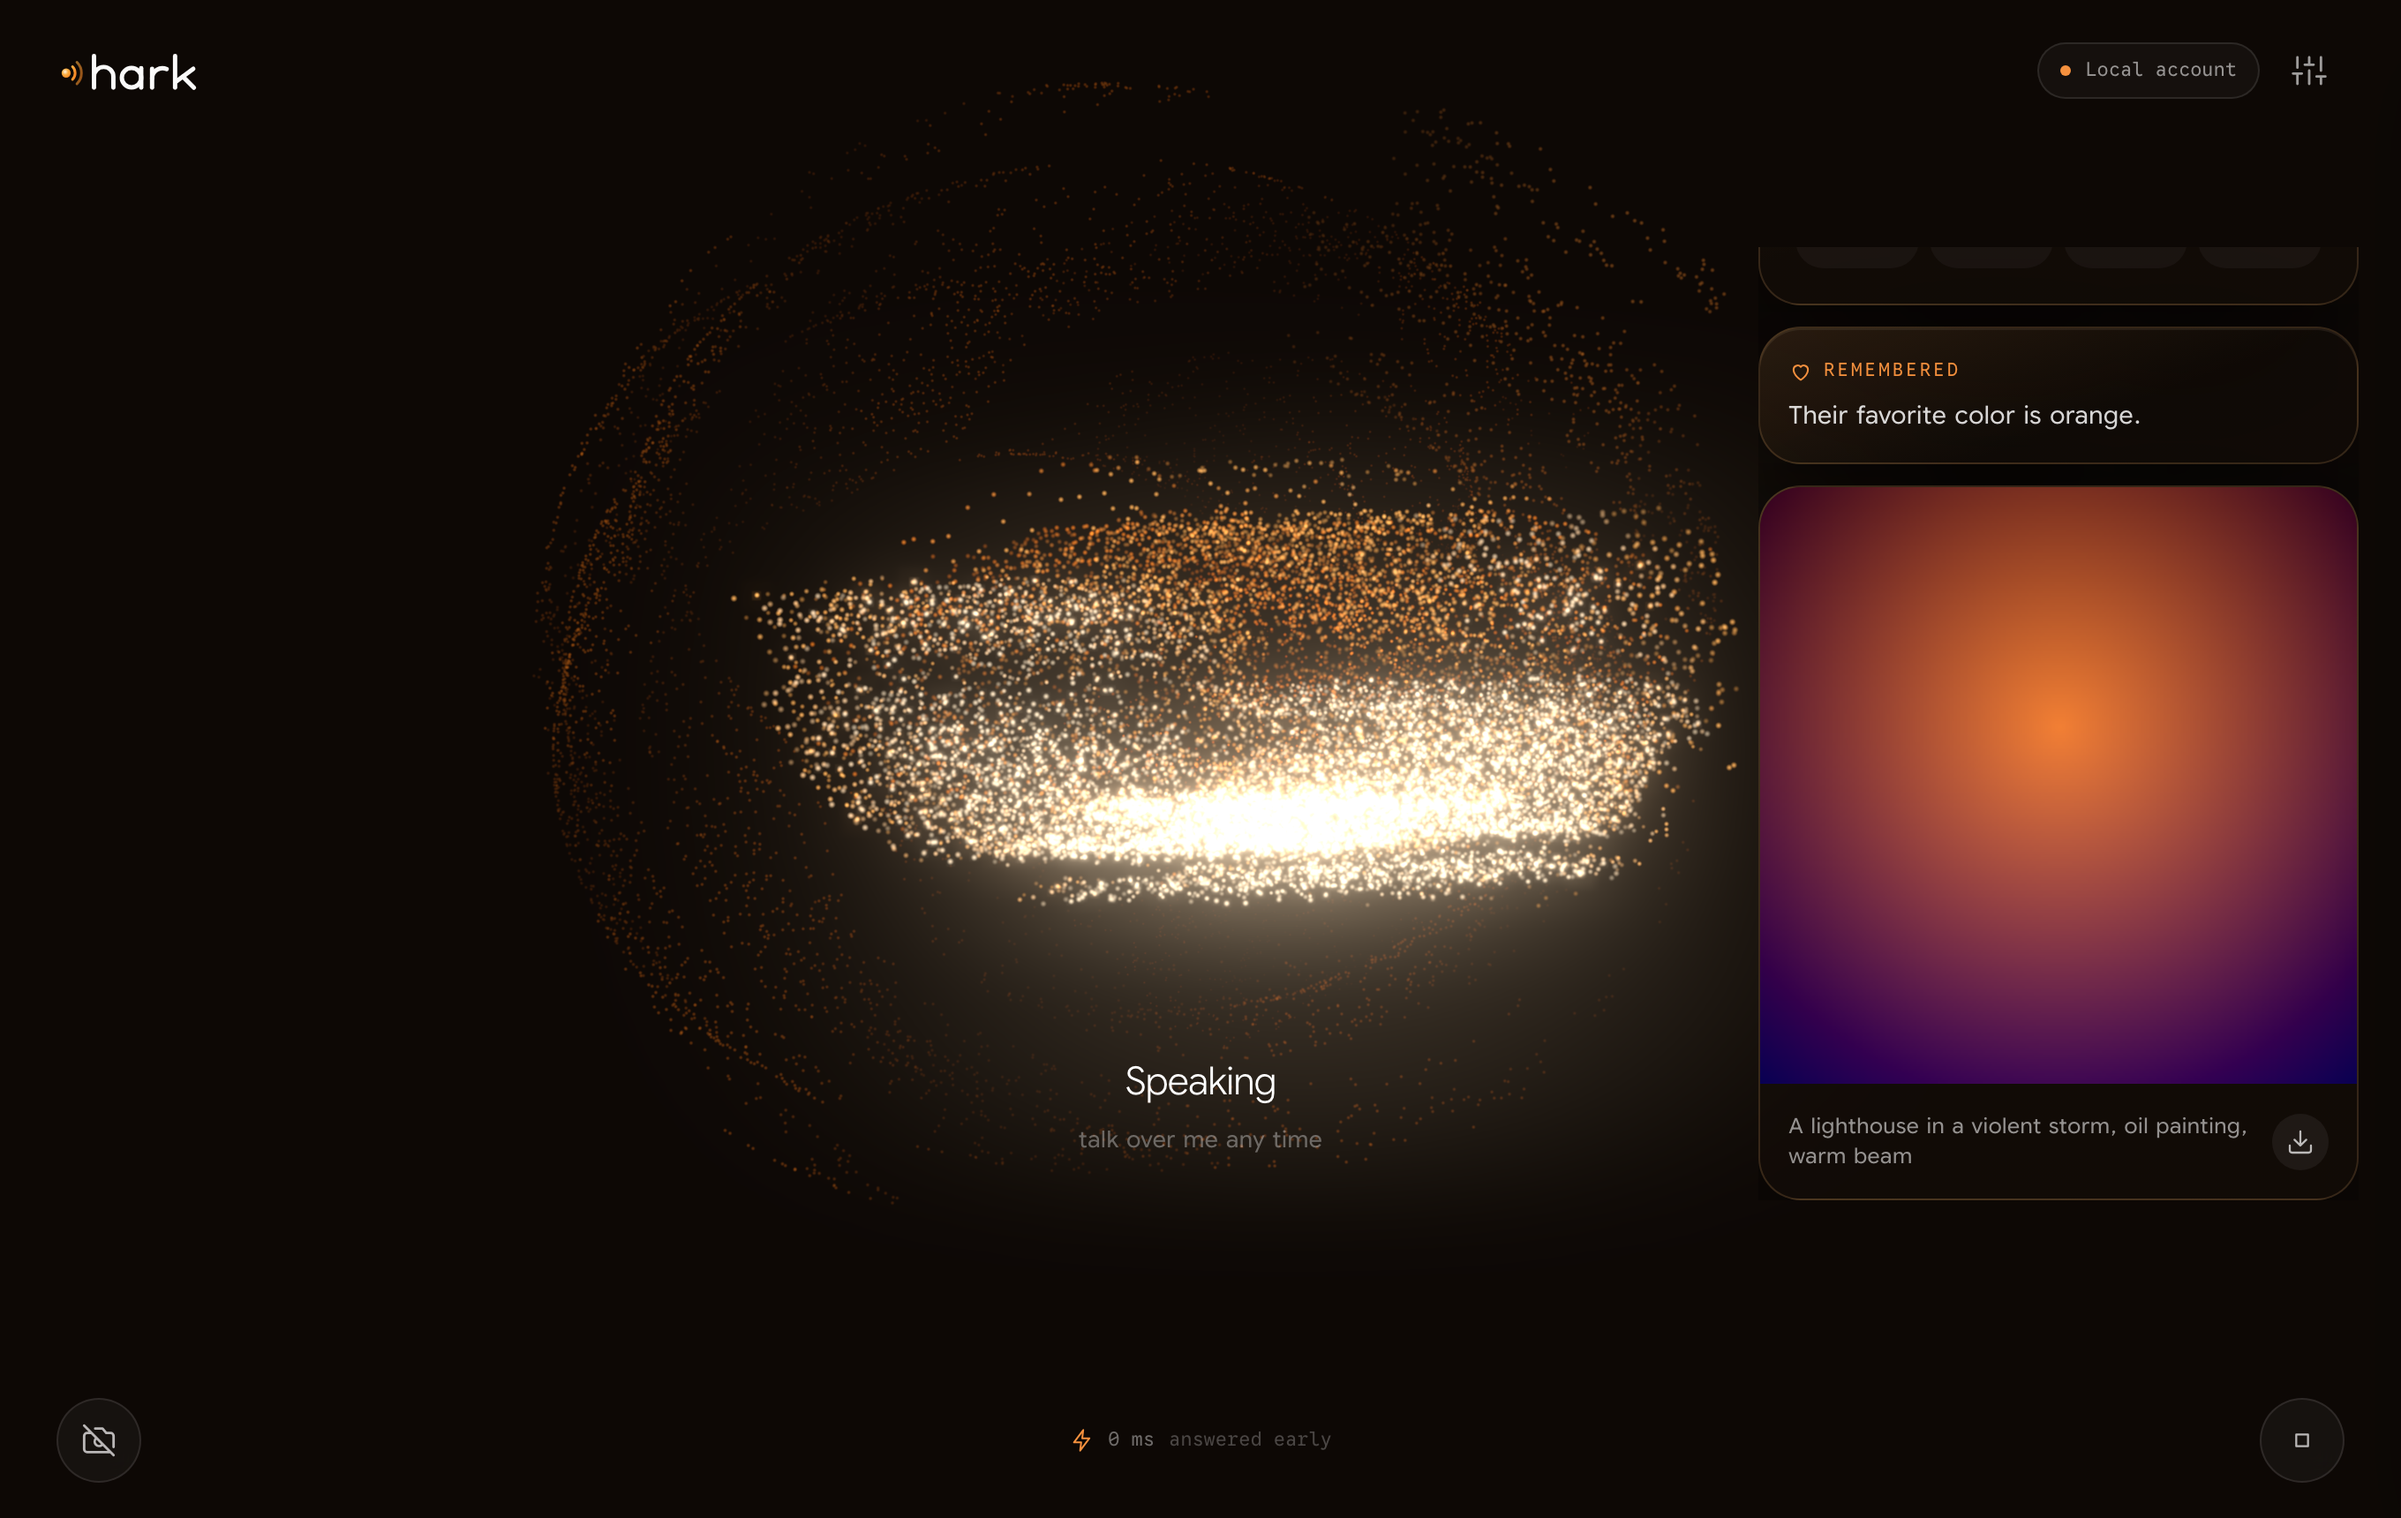
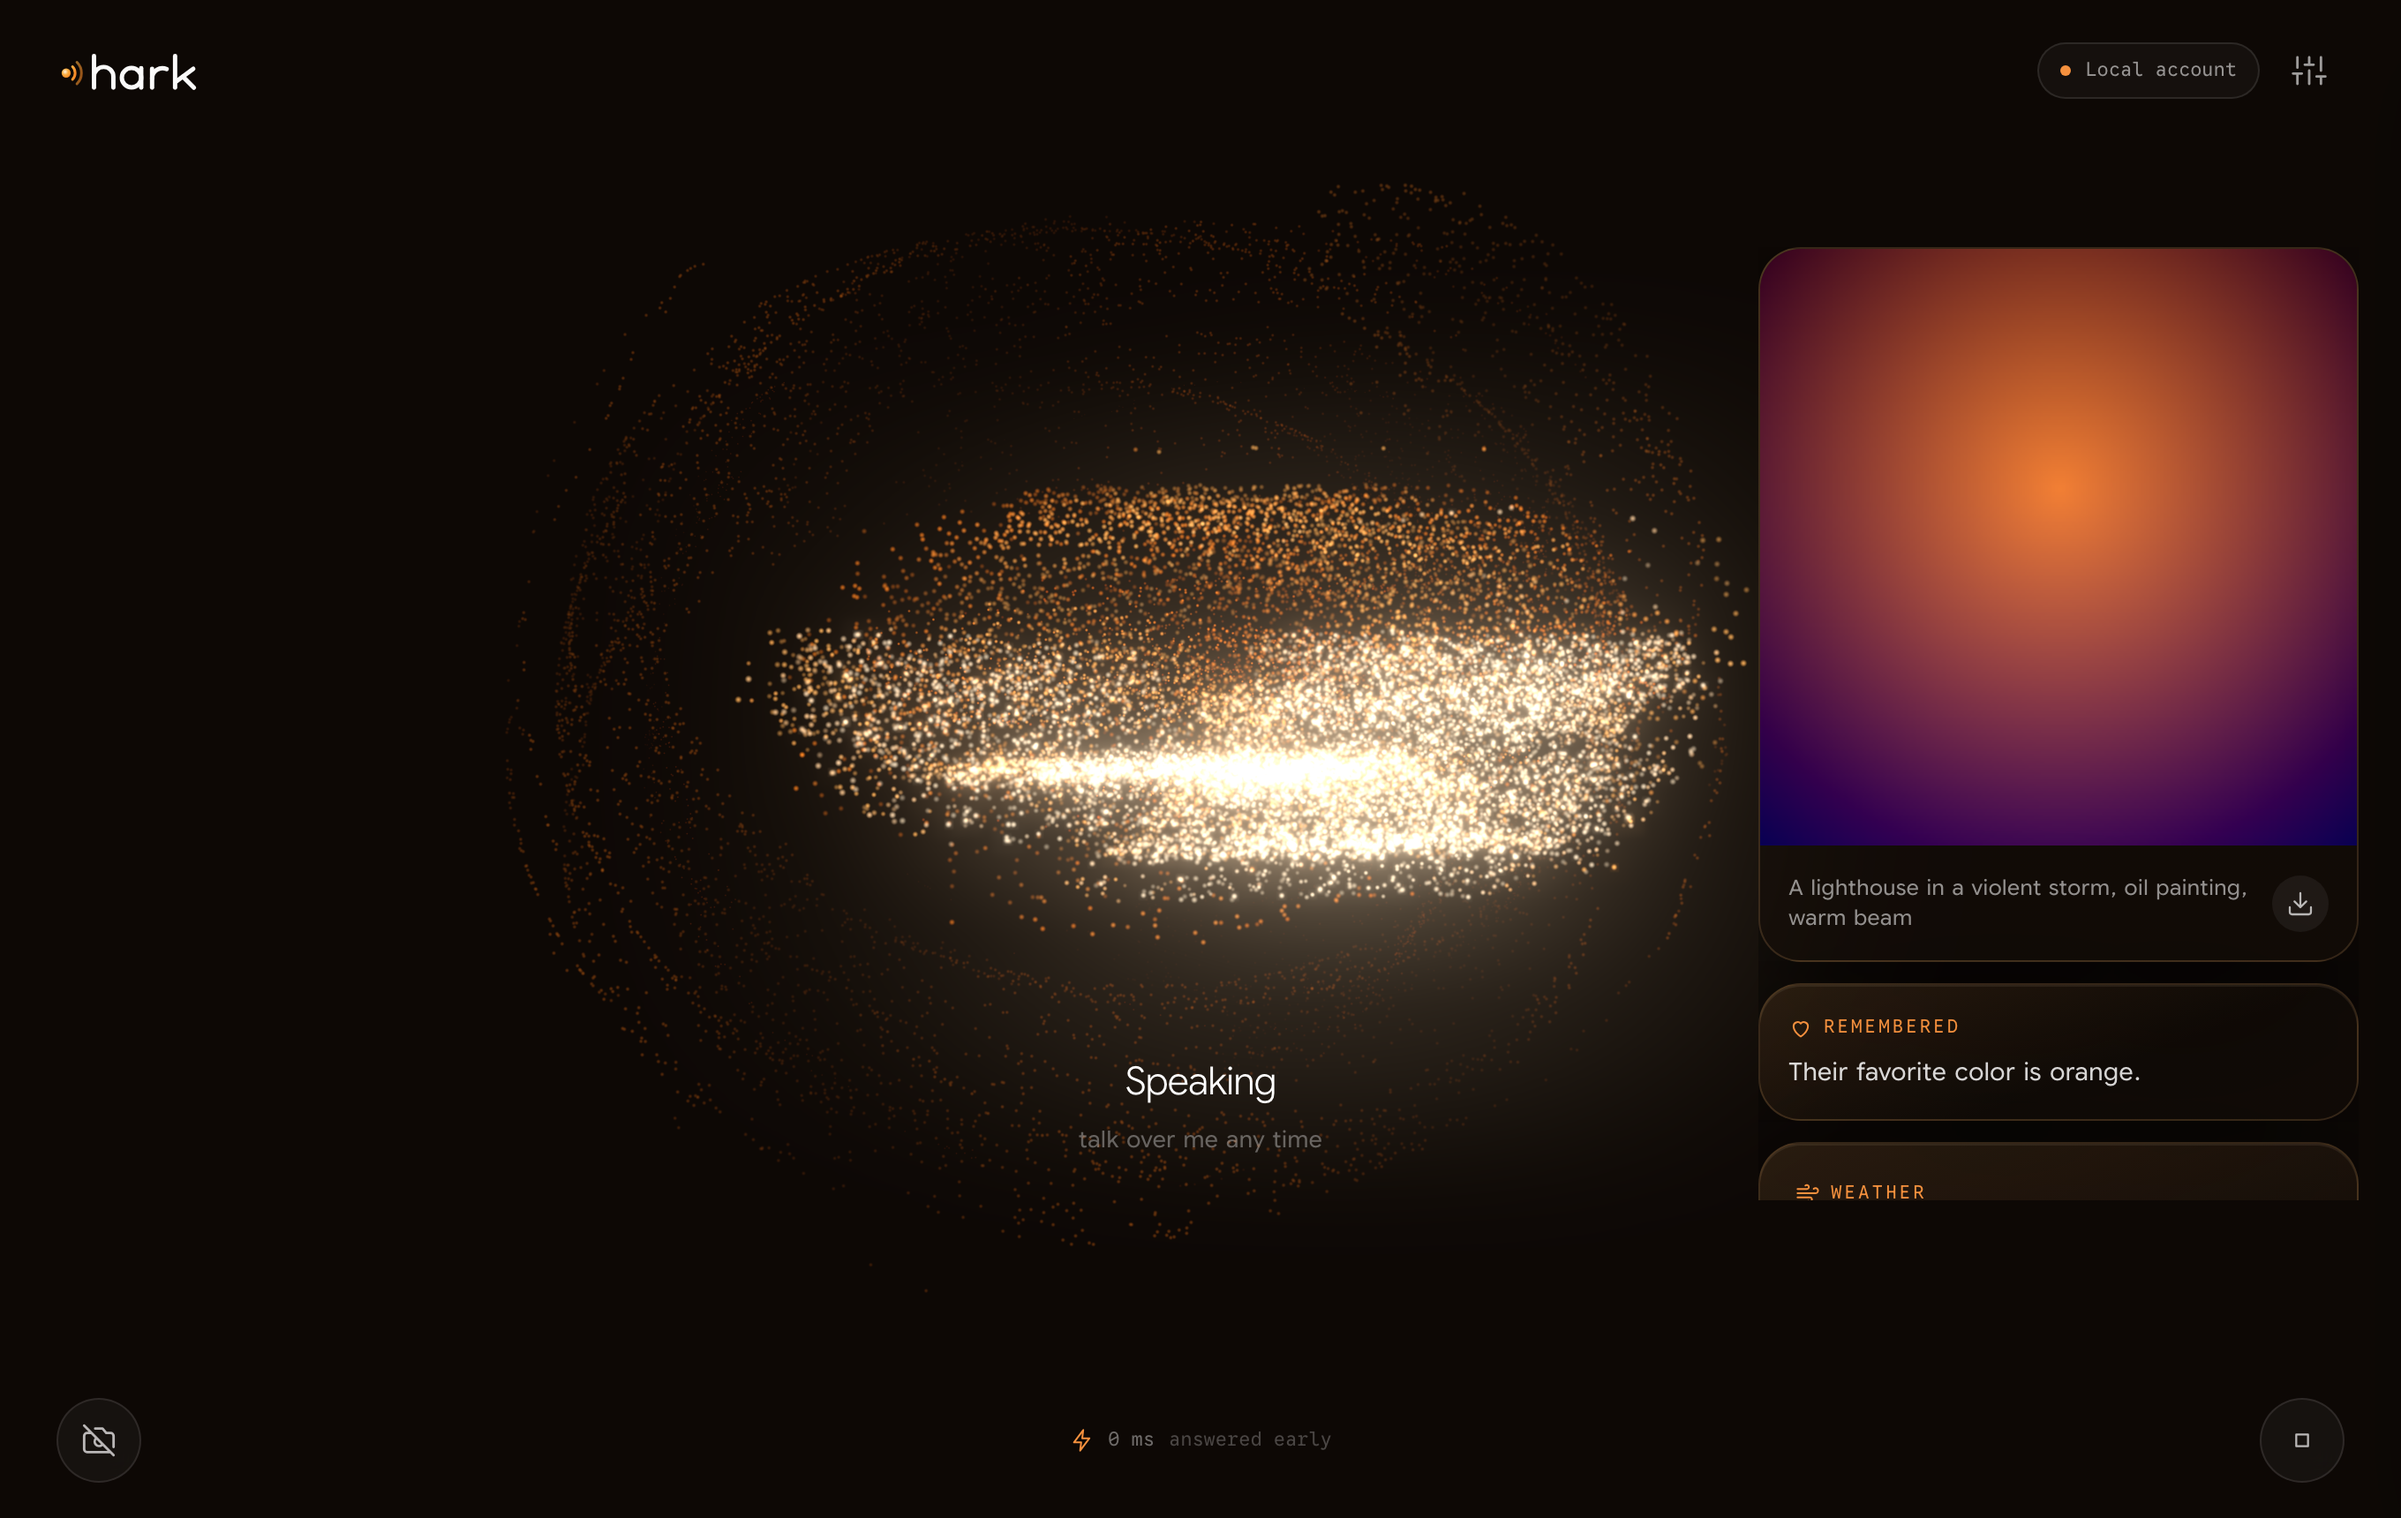
Run tool-call JSON a brain writes as text instead of speaking it; newest card on top

diff --git a/src/leaked-calls.ts b/src/leaked-calls.ts
@@ -1,0 +1,46 @@
+import type { ToolCall } from './sse';
+import { TOOLS } from './tools';
+
+const JSON_START = /^\s*[[{]/u;
+
+export const mightBeLeakedCall = (text: string) => JSON_START.test(text);
+
+const argumentSets = (parsed: unknown): Record<string, unknown>[] =>
+  (Array.isArray(parsed) ? parsed : [parsed]).filter(
+    (item): item is Record<string, unknown> => typeof item === 'object' && item !== null && !Array.isArray(item),
+  );
+
+const requiredOf = (parameters: Record<string, unknown>) =>
+  Array.isArray(parameters.required) ? parameters.required.filter((key): key is string => typeof key === 'string') : [];
+
+const propertiesOf = (parameters: Record<string, unknown>) =>
+  typeof parameters.properties === 'object' && parameters.properties !== null ? Object.keys(parameters.properties) : [];
+
+const toolFor = (args: Record<string, unknown>) => {
+  const keys = Object.keys(args);
+
+  return TOOLS.find((tool) => {
+    const required = requiredOf(tool.parameters);
+    const known = propertiesOf(tool.parameters);
+
+    return required.length > 0 && required.every((key) => keys.includes(key)) && keys.every((key) => known.includes(key));
+  });
+};
+
+export const leakedCalls = (text: string): ToolCall[] | null => {
+  if (!mightBeLeakedCall(text)) return null;
+
+  let parsed: unknown;
+
+  try {
+    parsed = JSON.parse(text.trim());
+  } catch {
+    return [];
+  }
+
+  return argumentSets(parsed).flatMap((args, index) => {
+    const tool = toolFor(args);
+
+    return tool === undefined ? [] : [{ id: `leaked_${index}`, name: tool.name, arguments: JSON.stringify(args) }];
+  });
+};

diff --git a/src/reply.ts b/src/reply.ts
@@ -1,6 +1,7 @@
 import { Effect } from 'effect';
 import type { Visual } from '../shared/protocol';
 import { flattenForBrain } from './flatten';
+import { leakedCalls, mightBeLeakedCall } from './leaked-calls';
 import { chatEvents, type ToolCall } from './sse';
 import type { ToolOutcome } from './tools';
 import type { ChatMessage } from './chat';
@@ -75,6 +76,7 @@ export async function* reply(
     for (let round = 0; round < MAX_ROUNDS && !signal.aborted; round += 1) {
       const body = await ports.chat(flattenForBrain(conversation), signal);
       let text = '';
+      let held = '';
       let calls: readonly ToolCall[] = [];
 
       for await (const event of chatEvents(body)) {
@@ -82,13 +84,26 @@ export async function* reply(
 
         if (event.kind === 'text') {
           result.firstTextAt ??= Date.now();
-          text += event.text;
-          said = said || event.text.trim() !== '';
-          yield event.text;
+
+          const pending = held + event.text;
+
+          if (text === '' && (pending.trim() === '' || mightBeLeakedCall(pending))) {
+            held = pending;
+            continue;
+          }
+
+          held = '';
+          text += pending;
+          said = said || pending.trim() !== '';
+          yield pending;
         }
 
         if (event.kind === 'tools') calls = event.calls;
       }
+
+      const recovered = calls.length === 0 && held.trim() !== '' ? leakedCalls(held) : null;
+
+      if (recovered !== null) calls = recovered;
 
       if (calls.length === 0 || round === MAX_ROUNDS - 1) return;
 

diff --git a/test/unit/agent-parts.test.ts b/test/unit/agent-parts.test.ts
@@ -122,6 +122,16 @@ describe('the reply hark returns from onTurn', () => {
     expect(result.error).toBe('Thinking failed (400)');
   });
 
+  it('never speaks tool-call JSON a brain wrote as text, and runs it as the tool instead', async () => {
+    const result = fresh();
+    const leaked = ports([{ deltas: ['[{"kind":', '"emoji","value":"❤"}]'] }, { deltas: ['There you go.'] }]);
+
+    expect(await collect(reply(leaked, [], new AbortController().signal, result))).toBe('There you go.');
+    expect(result.tools).toEqual(['show_form']);
+    expect(await collect(reply(ports([{ deltas: ['{not json'] }]), [], new AbortController().signal, fresh()))).toBe(RECOVERY);
+    expect(await collect(reply(ports([{ deltas: ['  ', 'Lisbon.'] }]), [], new AbortController().signal, fresh()))).toBe('  Lisbon.');
+  });
+
   it('marks goodbye so the call can close after it is spoken', async () => {
     const result = fresh();
 

diff --git a/client/src/view/visuals.ts b/client/src/view/visuals.ts
@@ -183,10 +183,11 @@ export const visuals = (h: H, model: Model): Html =>
       h.AriaLabel('What hark showed you'),
       h.AriaLive('polite'),
       h.Class(
-        'pointer-events-none flex w-full flex-col gap-3 md:absolute md:top-20 md:right-6 md:bottom-28 md:w-[340px] md:justify-end md:overflow-hidden',
+        'pointer-events-none flex w-full flex-col gap-3 md:absolute md:top-20 md:right-6 md:bottom-28 md:w-[340px] md:justify-start md:overflow-hidden',
       ),
     ],
     model.visuals
       .filter((visual) => visual._tag !== 'Form')
+      .toReversed()
       .map((visual) => h.keyed('div')(visual.id, [h.Class(visual._tag === 'Image' ? 'visual-in painted-in' : 'visual-in')], [card(h, model, visual)])),
   );
